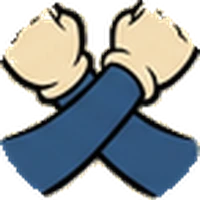
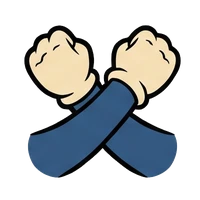
v0.297: çapraz yumruk ikonu yenisiyle değişti (kırpılmadan, butona sığar)
Claude-Session: https://claude.ai/code/session_01CBQszWuhLMZGVSD6mqQCnd

diff --git a/www/index.html b/www/index.html
@@ -1,7 +1,7 @@
 <!doctype html>
 <html lang="tr"><head><meta charset="utf-8"><meta name="viewport" content="width=device-width,initial-scale=1,viewport-fit=cover,user-scalable=no">
 <title>Popeye Fighter</title>
-<link rel="stylesheet" href="css/oyun.css?v=0.296">
+<link rel="stylesheet" href="css/oyun.css?v=0.297">
 </head><body>
 
 
@@ -19,24 +19,24 @@
 <div class="mini" id="kapat">✕</div>
 <div id="yuk">YÜKLENİYOR…</div>
 
-<script src="js/ayar.js?v=0.296"></script>
-<script src="js/girdi.js?v=0.296"></script>
-<script src="js/el.js?v=0.296"></script>
-<script src="js/ozel.js?v=0.296"></script>
-<script src="js/mermi.js?v=0.296"></script>
-<script src="js/dusman_kur.js?v=0.296"></script>
-<script src="js/ses.js?v=0.296"></script>
-<script src="js/ispanak.js?v=0.296"></script>
-<script src="js/varil.js?v=0.296"></script>
-<script src="js/efekt.js?v=0.296"></script>
-<script src="js/savas.js?v=0.296"></script>
-<script src="js/korsan.js?v=0.296"></script>
-<script src="js/hud.js?v=0.296"></script>
-<script src="js/kombo.js?v=0.296"></script>
-<script src="js/yetenek.js?v=0.296"></script>
-<script src="js/oyuncu.js?v=0.296"></script>
-<script src="js/demo.js?v=0.296"></script>
-<script src="js/dongu.js?v=0.296"></script>
+<script src="js/ayar.js?v=0.297"></script>
+<script src="js/girdi.js?v=0.297"></script>
+<script src="js/el.js?v=0.297"></script>
+<script src="js/ozel.js?v=0.297"></script>
+<script src="js/mermi.js?v=0.297"></script>
+<script src="js/dusman_kur.js?v=0.297"></script>
+<script src="js/ses.js?v=0.297"></script>
+<script src="js/ispanak.js?v=0.297"></script>
+<script src="js/varil.js?v=0.297"></script>
+<script src="js/efekt.js?v=0.297"></script>
+<script src="js/savas.js?v=0.297"></script>
+<script src="js/korsan.js?v=0.297"></script>
+<script src="js/hud.js?v=0.297"></script>
+<script src="js/kombo.js?v=0.297"></script>
+<script src="js/yetenek.js?v=0.297"></script>
+<script src="js/oyuncu.js?v=0.297"></script>
+<script src="js/demo.js?v=0.297"></script>
+<script src="js/dongu.js?v=0.297"></script>
 </script>
 
 </body>

diff --git a/www/js/ayar.js b/www/js/ayar.js
@@ -1,9 +1,9 @@
 'use strict';
 // Ayarlar, sürüm, görsel yükleyici, ekran boyutu, oyuncu durumu (S)
 // ---------- Görseller: hepsi tek yükleyiciyle; tamamı inince oyun başlar ----------
-const OYUN_SURUM='v0.296';      // ekrandaki sürüm (her değişiklikte artar)
+const OYUN_SURUM='v0.297';      // ekrandaki sürüm (her değişiklikte artar)
 document.getElementById('surum').textContent=OYUN_SURUM;
-const SURUM='?v=73';                 // görsel değişince artır: tarayıcı eski önbelleği kullanmasın
+const SURUM='?v=74';                 // görsel değişince artır: tarayıcı eski önbelleği kullanmasın
 const KP=['kafa','govde','kalca','ust','on','elN','elF','uy','bacak','bot'];      // korsan parça seti (k: yumruklu, b: bıçaklı, p: tabancalı kaptan)
 const ADLAR=['kalca','ustkol','onkol','onkol2','uyluk','altpan','bacak_bot','el_yum','el_yum_f','el_ac_n','el_ac_f','el_pN','el_pF','p_mermi','p_ates','h_elB','h_kanca','h_zincir']
   .concat([...Array(11).keys()].map(i=>'govde'+i),...['k_','b_','p_','h_'].map(q=>KP.map(n=>q+n)));
